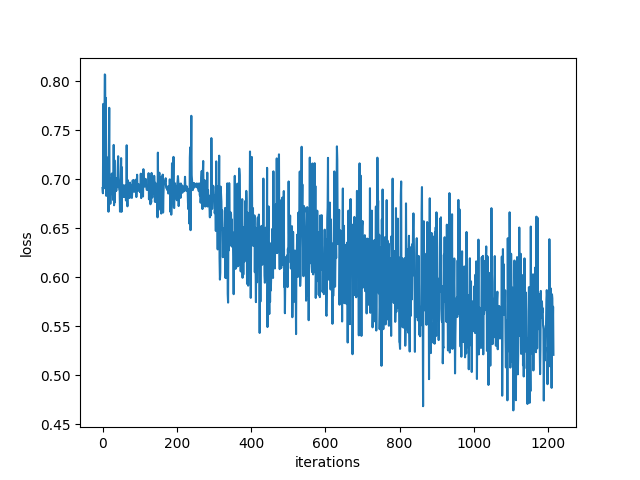
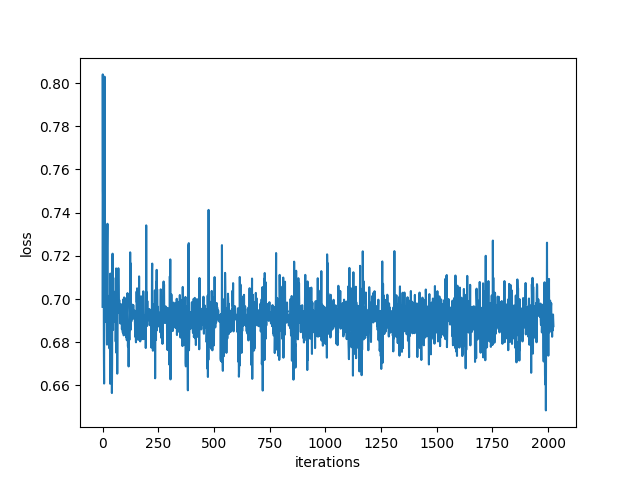
broke again

diff --git a/Vishal_tests/base/gender_model.py b/Vishal_tests/base/gender_model.py
@@ -241,7 +241,7 @@ loss_fn = nn.CrossEntropyLoss().type(dtype)
 optimizer = optim.Adam(model.parameters(), lr=1e-4,weight_decay=5e-3)
 print("start training")
 
-loss_history,acc_history,val_acc_history=train(train_loader,val_loader, model, loss_fn, optimizer, dtype,num_epochs=15, print_every=10)
+loss_history,acc_history,val_acc_history=train(train_loader,val_loader, model, loss_fn, optimizer, dtype,num_epochs=25, print_every=10)
 
 plt.plot(range(len(loss_history)),loss_history)
 plt.xlabel("iterations")
